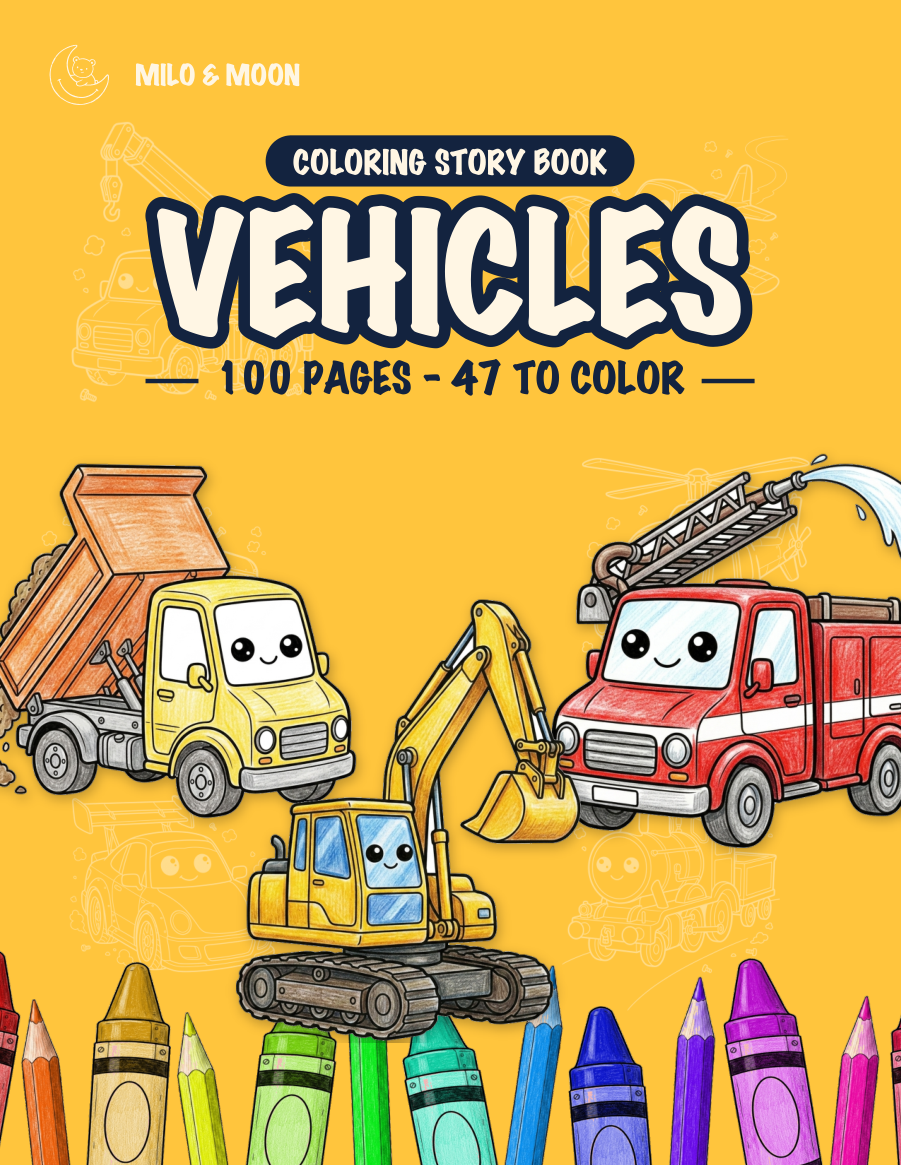
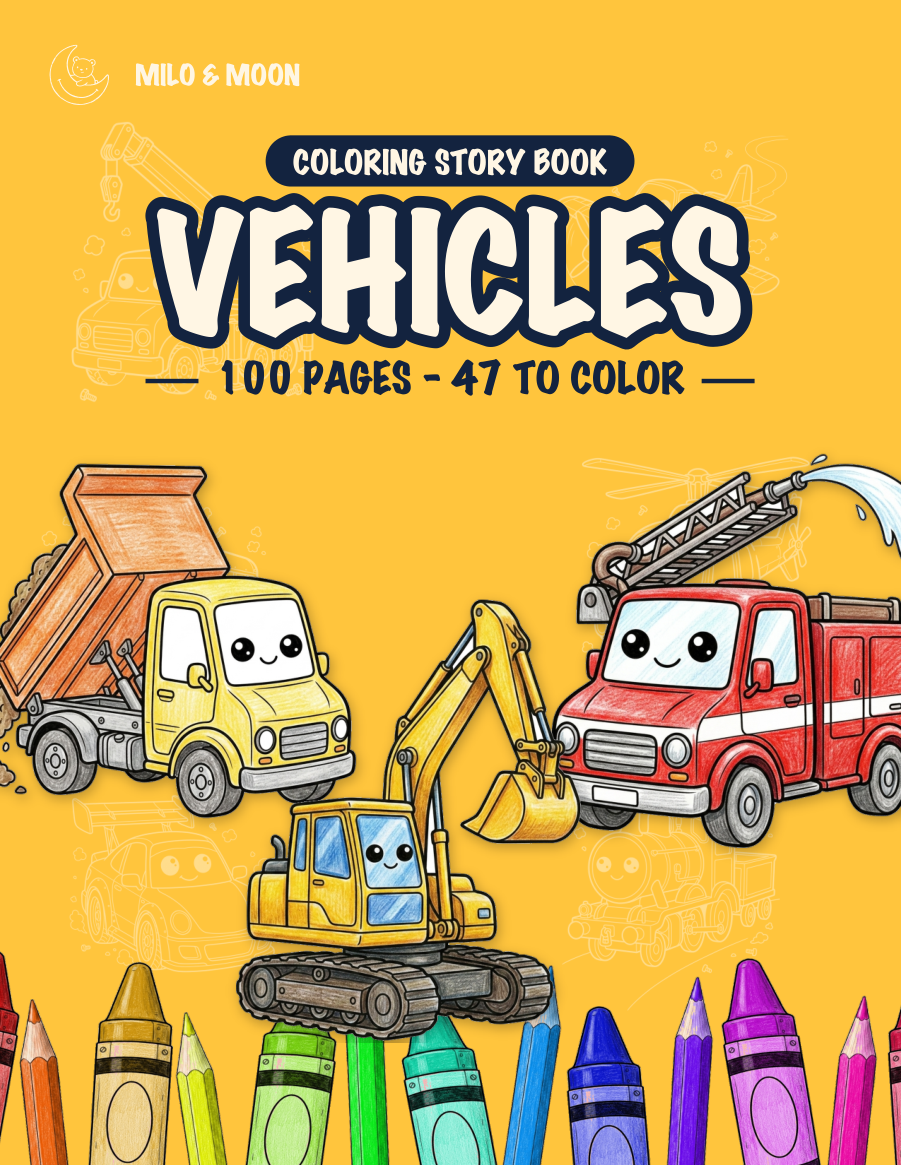
Vehicles US cover; restore the US genre page; localise two missed strings
- Vehicles US cover rebuilt from the finished US edition.

- ⛔ FIXED A LIVE PAGE ABOUT TO 404. The US books declare
  `series: coloring-story-books`; GENRES only knew the British
  `colouring-story-books`, so every US title was rejected, no US title
  matched a genre, and /us/coloring-story-books/ stopped being generated.
  The build's stale-file sweep then deleted the copy left from an older
  build. The product-line key is now normalised to one spelling — the
  reader-facing URL is still localised via genre_slug. Same lesson as
  coloured-digger.png becoming colored-digger.png, but on a CONFIG KEY,
  which is why the earlier fix did not cover it.

- Alt text on US pages read "a colouring story book" — the localiser was
  applied to the book name but not the phrase around it.

- The Organization JSON-LD on the US homepage read "Publisher of rhyming
  colouring story books". Structured data is not part of the page body,
  so the localiser never reached it. Invisible on screen, read by search
  engines, on the one string describing the whole business.

Changed region(s): [[0.0, 0.8034, 1.0, 1.0], [0.4972, 0.8961, 0.5283, 0.927]]

diff --git a/us/index.html b/us/index.html
@@ -22,7 +22,7 @@
 <link rel="icon" href="/favicon.ico" sizes="any">
 <link rel="icon" href="/favicon-32.png" type="image/png" sizes="32x32">
 <link rel="apple-touch-icon" href="/apple-touch-icon.png">
-<script type="application/ld+json">{"@context": "https://schema.org", "@type": "Organization", "name": "Milo & Moon", "url": "https://miloandmoon.co.uk/", "logo": "https://miloandmoon.co.uk/brand/logo.png", "email": "hello@miloandmoon.co.uk", "description": "Publisher of rhyming colouring story books for children aged 4 to 8."}</script>
+<script type="application/ld+json">{"@context": "https://schema.org", "@type": "Organization", "name": "Milo & Moon", "url": "https://miloandmoon.co.uk/", "logo": "https://miloandmoon.co.uk/brand/logo.png", "email": "hello@miloandmoon.co.uk", "description": "Publisher of rhyming coloring story books for children aged 4 to 8."}</script>
 </head>
 <body style="--field:#FBF1DF">
 <a class="skip" href="#main">Skip to content</a>
@@ -53,19 +53,19 @@
       <a class="fanned" href="/us/books/animals/"
          style="--tilt:-3.0deg;--field:#FDDFD2">
         <img src="/books/animals/cover-us.png"
-             alt="Animals, a colouring story book"
+             alt="Animals, a coloring story book"
              width="900" height="1165">
       </a>
       <a class="fanned" href="/us/books/dinosaurs/"
          style="--tilt:2.2deg;--field:#E9EEE2">
         <img src="/books/dinosaurs/cover-us.png"
-             alt="Dinosaurs, a colouring story book"
+             alt="Dinosaurs, a coloring story book"
              width="900" height="1165">
       </a>
       <a class="fanned" href="/us/books/vehicles/"
          style="--tilt:-1.6deg;--field:#FBF1DF">
         <img src="/books/vehicles/cover-us.png"
-             alt="Vehicles, a colouring story book"
+             alt="Vehicles, a coloring story book"
              width="900" height="1165">
       </a></div>
   </section>

diff --git a/us/coloring-story-books/index.html b/us/coloring-story-books/index.html
@@ -50,7 +50,7 @@
       <a class="book" href="/us/books/animals/"
          style="--field:#FDDFD2;--tilt:-3.0deg">
         <span class="shelf"><img src="/books/animals/cover-us.png"
-             alt="Animals, a colouring story book"
+             alt="Animals, a coloring story book"
              loading="lazy" width="900" height="1165"></span>
         <span class="meta">
           <span class="bt">Animals</span>
@@ -61,7 +61,7 @@
       <a class="book" href="/us/books/dinosaurs/"
          style="--field:#E9EEE2;--tilt:2.2deg">
         <span class="shelf"><img src="/books/dinosaurs/cover-us.png"
-             alt="Dinosaurs, a colouring story book"
+             alt="Dinosaurs, a coloring story book"
              loading="lazy" width="900" height="1165"></span>
         <span class="meta">
           <span class="bt">Dinosaurs</span>
@@ -72,7 +72,7 @@
       <a class="book" href="/us/books/vehicles/"
          style="--field:#FBF1DF;--tilt:-1.6deg">
         <span class="shelf"><img src="/books/vehicles/cover-us.png"
-             alt="Vehicles, a colouring story book"
+             alt="Vehicles, a coloring story book"
              loading="lazy" width="900" height="1165"></span>
         <span class="meta">
           <span class="bt">Vehicles</span>

diff --git a/us/books/dinosaurs/index.html b/us/books/dinosaurs/index.html
@@ -44,7 +44,7 @@
 
   <article class="title">
     <div class="art"><img src="/books/dinosaurs/cover-us.png"
-      alt="Front cover of DINOSAURS, a colouring story book"
+      alt="Front cover of DINOSAURS, a coloring story book"
       width="900" height="1165"></div>
     <div class="copy">
       <p class="eyebrow">Coloring Story Book</p>

diff --git a/us/books/vehicles/index.html b/us/books/vehicles/index.html
@@ -44,7 +44,7 @@
 
   <article class="title">
     <div class="art"><img src="/books/vehicles/cover-us.png"
-      alt="Front cover of VEHICLES, a colouring story book"
+      alt="Front cover of VEHICLES, a coloring story book"
       width="900" height="1165"></div>
     <div class="copy">
       <p class="eyebrow">Coloring Story Book</p>

diff --git a/us/books/animals/index.html b/us/books/animals/index.html
@@ -44,7 +44,7 @@
 
   <article class="title">
     <div class="art"><img src="/books/animals/cover-us.png"
-      alt="Front cover of ANIMALS, a colouring story book"
+      alt="Front cover of ANIMALS, a coloring story book"
       width="900" height="1165"></div>
     <div class="copy">
       <p class="eyebrow">Coloring Story Book</p>
